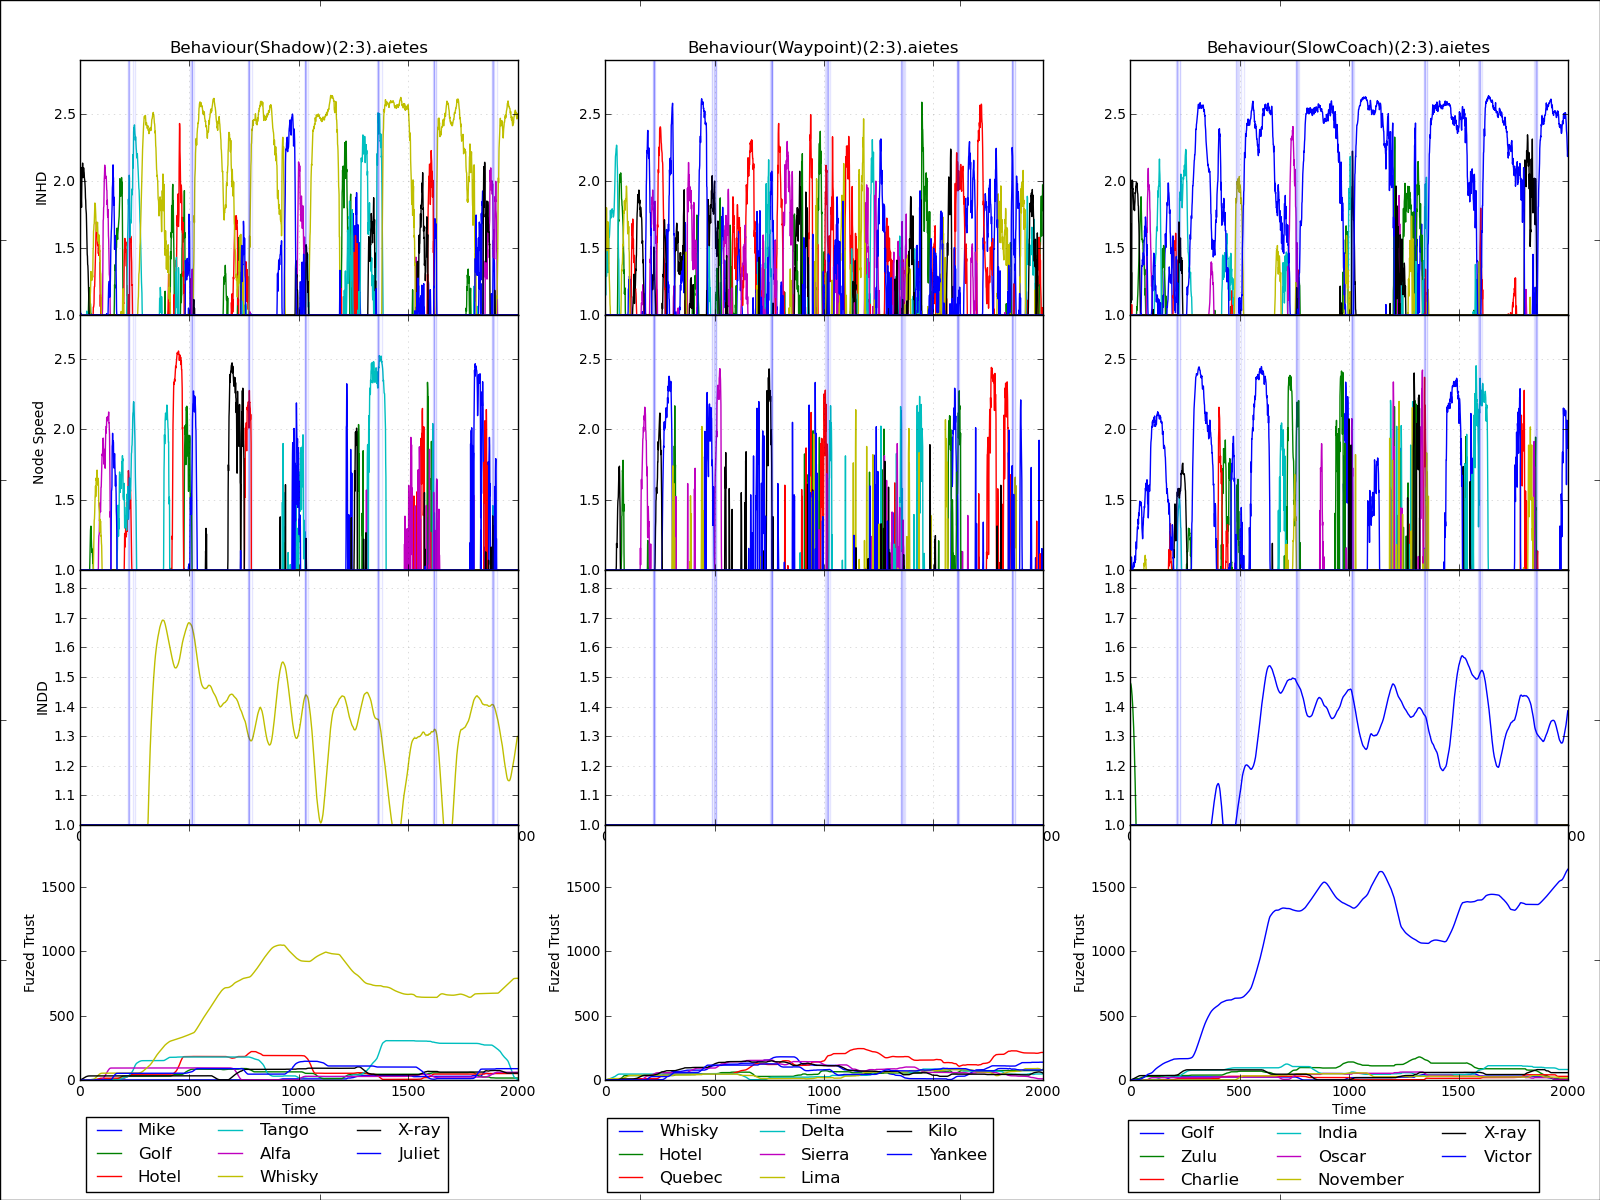
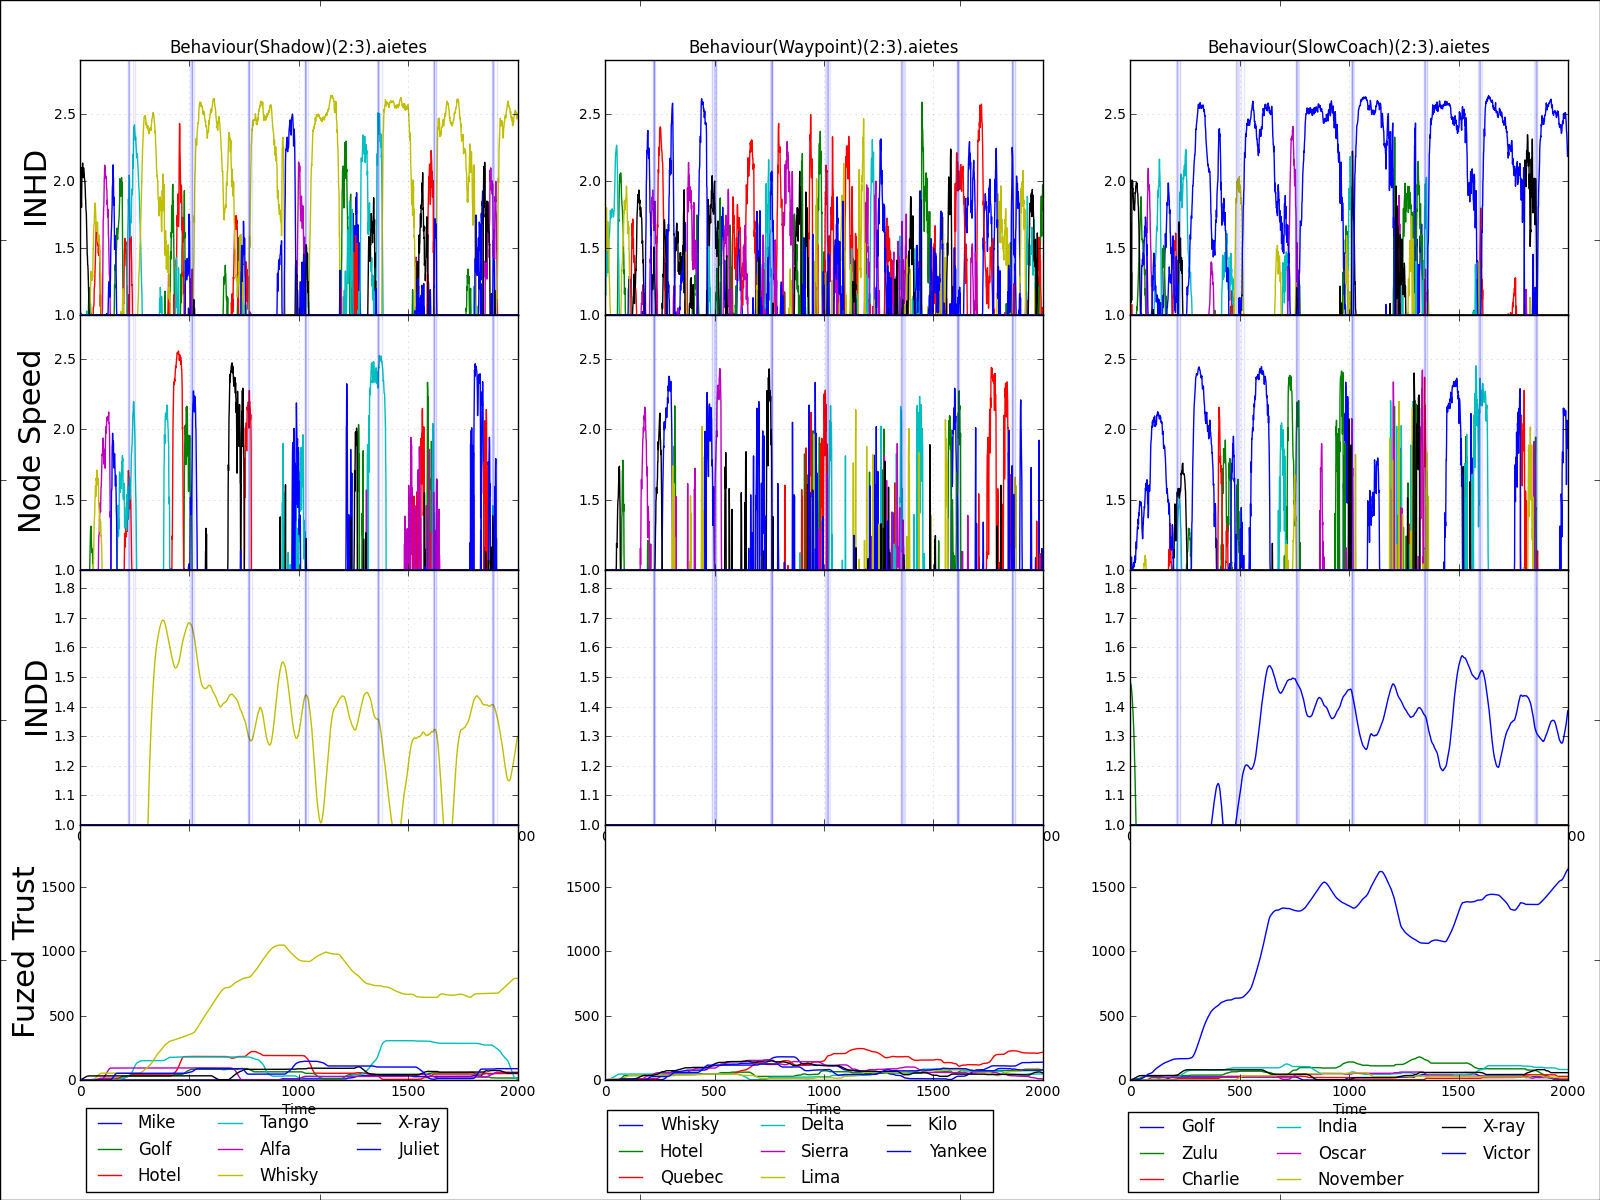
Fixed #17 for xaxis, which is all I really need anyway...

diff --git a/src/bounos/__init__.py b/src/bounos/__init__.py
@@ -54,11 +54,12 @@ class BounosModel(DataPackage):
         test = re.compile(".npz$")
         return test.search(file)
 
-
+args = None
 def main():
     """
     Initial Entry Point; Does very little other that option parsing
     """
+    global args
     parser = argparse.ArgumentParser(
         formatter_class=RawTextHelpFormatter,
         description="Simulation Visualisation and Analysis Suite for AIETES",
@@ -122,7 +123,11 @@ def main():
                         action='store_true', default=False,
                         help="Shade any detection regions"
     )
-
+    parser.add_argument('--label-size', '-L',
+                        dest='font_size', action='store', default=font['size'],
+                        metavar=font['size'], type=int,
+                        help="Change the Default Font size for axis labels"
+    )
     args = parser.parse_args()
     print args
 
@@ -262,7 +267,7 @@ def run_detection_fusion(data, args):
 
                     ax.legend(d.names, "lower center", bbox_to_anchor=(leg_x, 0, leg_w, 1),
                               bbox_transform=fig.transFigure,
-                              ncol=int(ceil(float(len(d.names)) / (n_leg))))
+                              ncol=int(ceil(float(len(d.names)+1) / (n_leg))))
                 #First Legend
                 elif i == 0:
                     ax.legend(d.names, "lower center", bbox_to_anchor=(0, 0, 1, 1), bbox_transform=fig.transFigure,
@@ -281,7 +286,7 @@ def run_detection_fusion(data, args):
         ax.plot(deviation_windowed)
         ax.get_xaxis().set_visible(True)
         ax.set_xlabel("Time")
-        ax.set_ylabel("Fuzed Trust")
+        if i == 0: ax.set_ylabel("Fuzed Trust")
         axes[i][j] = ax
 
         # Now go left to right to adjust the scaling to match
@@ -305,7 +310,7 @@ def run_detection_fusion(data, args):
     if args is not None and args.dims is not None:
         fig.set_size_inches((int(d) for d in args.dims))
 
-    resize(fig, 2)
+    global_adjust(fig, axes)
 
     if args is not None and args.output is not None:
         savefig("%s.%s" % (args.title, args.output), bbox_inches=0)
@@ -377,7 +382,7 @@ def run_metric_comparison(data, args):
 
                     ax.legend(d.names, "lower center", bbox_to_anchor=(leg_x, 0, leg_w, 1),
                               bbox_transform=fig.transFigure,
-                              ncol=int(ceil(float(len(d.names)) / (n_leg))))
+                              ncol=int(ceil(float(len(d.names)+1) / (n_leg))))
                 #First Legend
                 elif i == 0:
                     ax.legend(d.names, "lower center", bbox_to_anchor=(0, 0, 1, 1), bbox_transform=fig.transFigure,
@@ -408,7 +413,7 @@ def run_metric_comparison(data, args):
     if args is not None and args.dims is not None:
         fig.set_size_inches((int(d) for d in args.dims))
 
-    resize(fig, 2)
+    global_adjust(fig,axes)
 
     if args is not None and args.output is not None:
         savefig("%s.%s" % (args.title, args.output), bbox_inches=0)
@@ -477,7 +482,9 @@ def run_overlay(data, args):
     else:
         pl.show()
 
-
-def resize(figure, scale):
+def global_adjust(figure, axes, scale = 2):
+    for axe in axes:
+        for ax in axe:
+            ax.set_ylabel(ax.get_ylabel(), size = args.font_size)
     figure.set_size_inches(figure.get_size_inches() * scale)
     figure.subplots_adjust(left=0.05, bottom=0.1, right=0.98, top=0.95, wspace=0.2, hspace=0.0)
